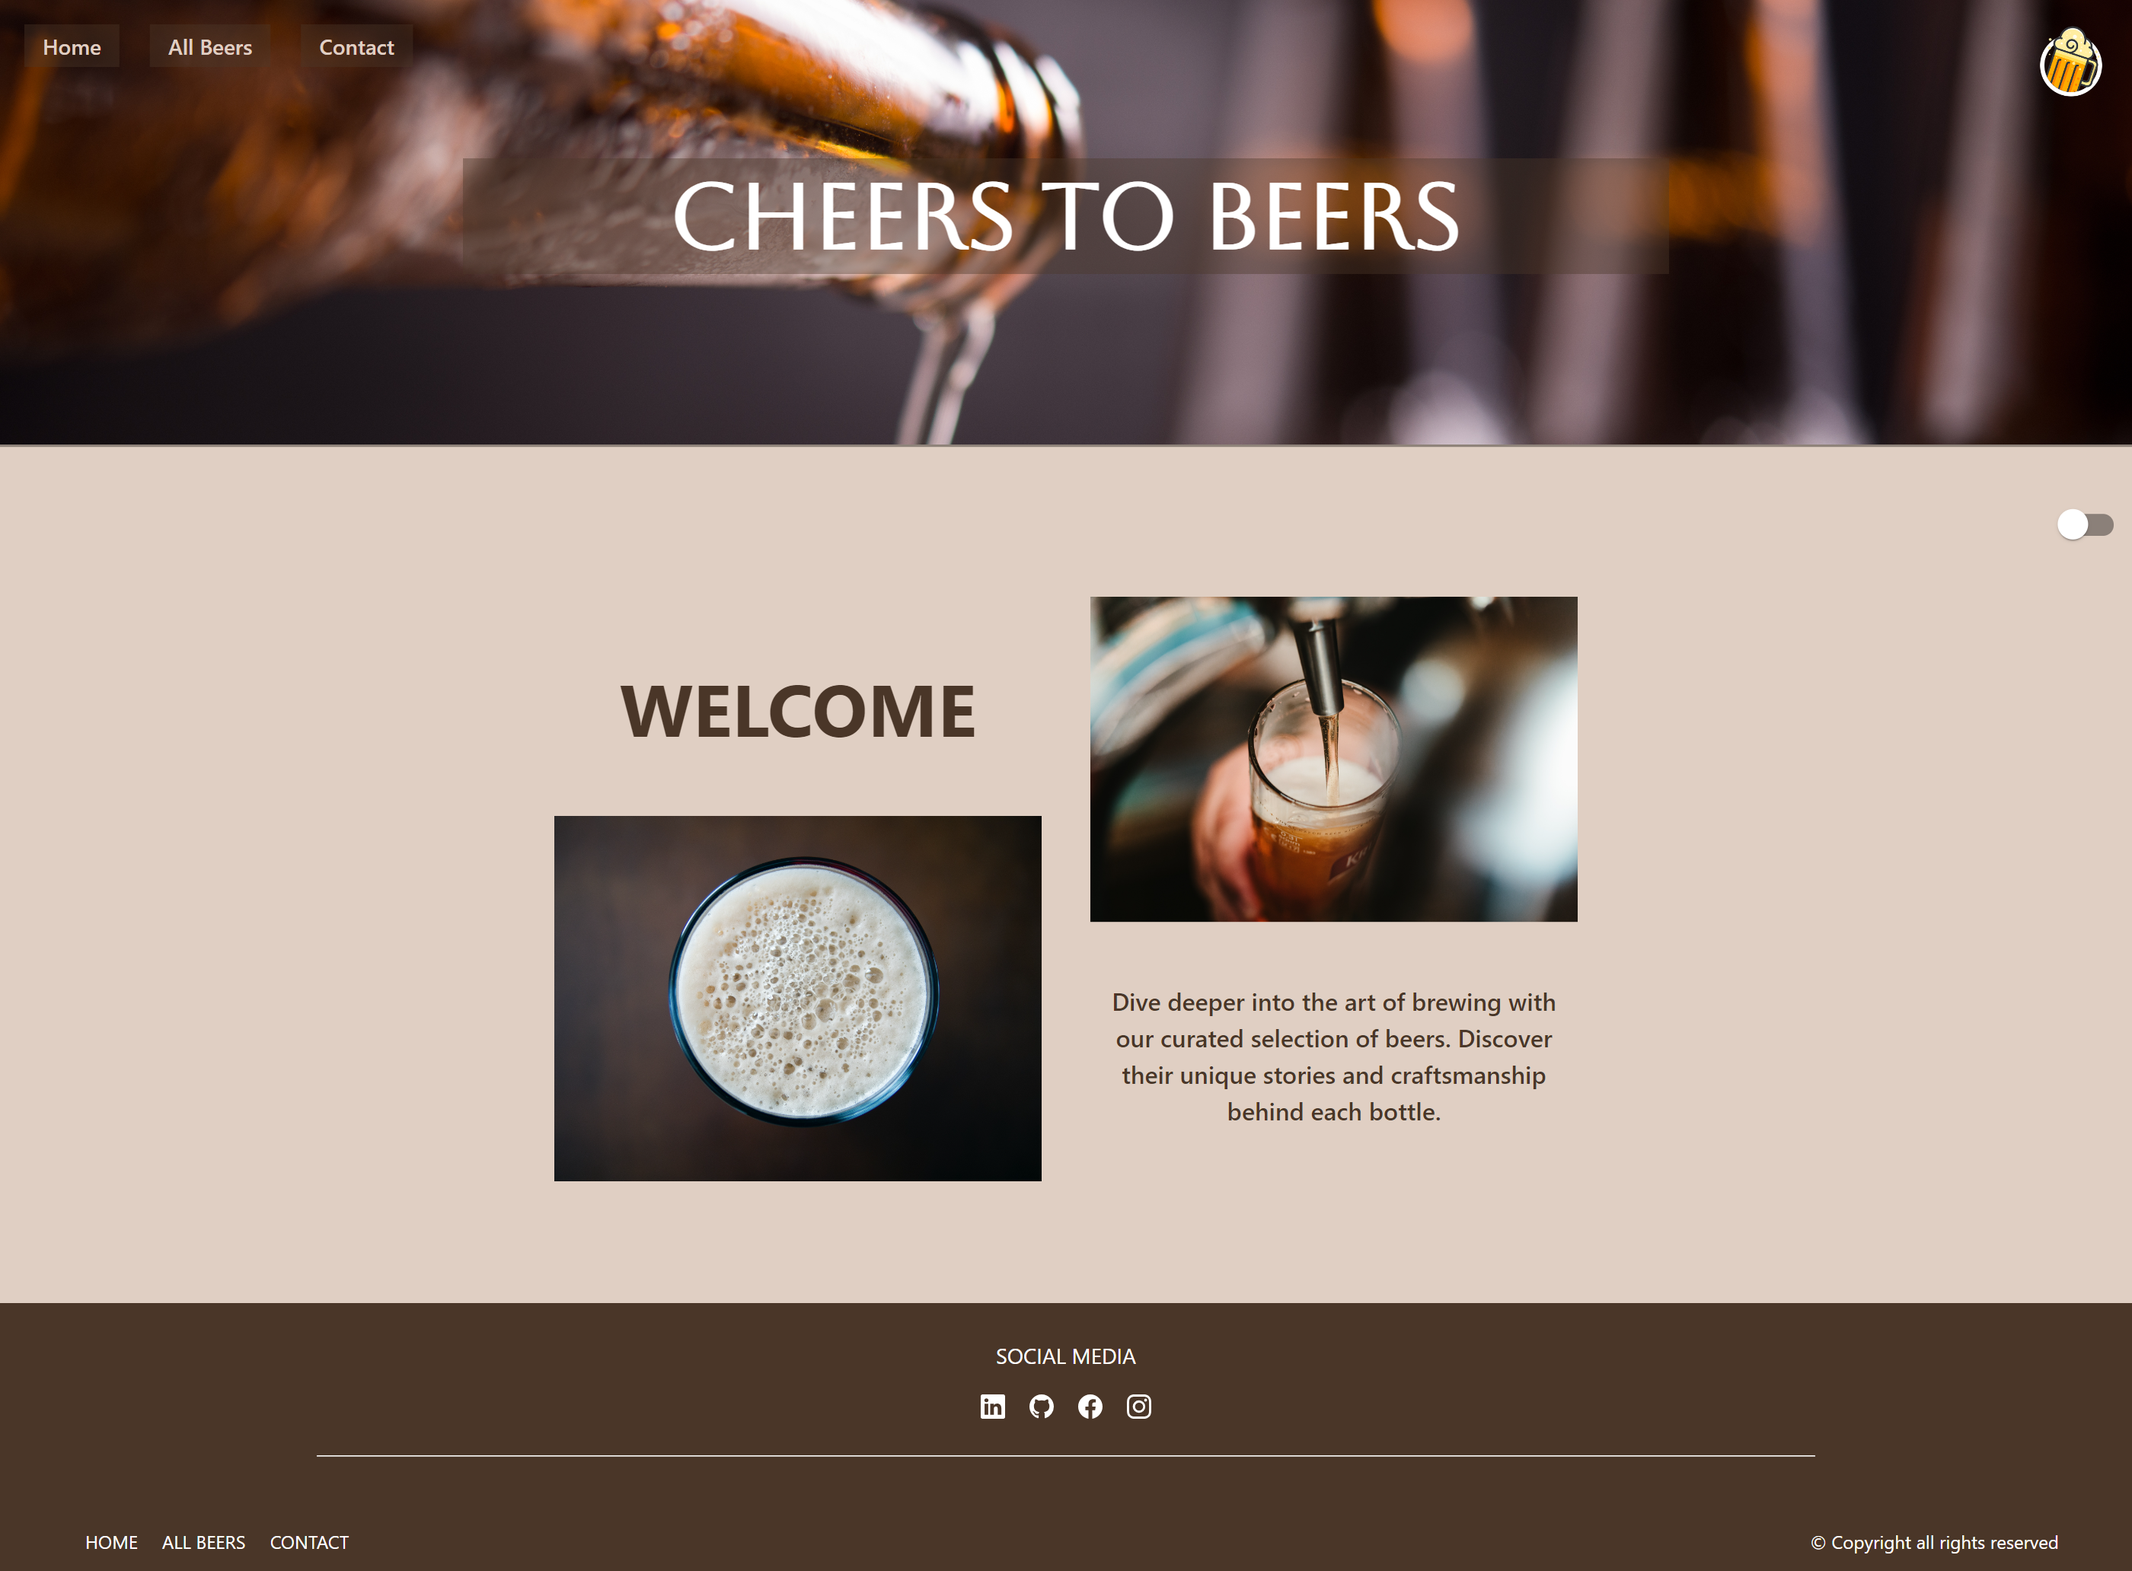
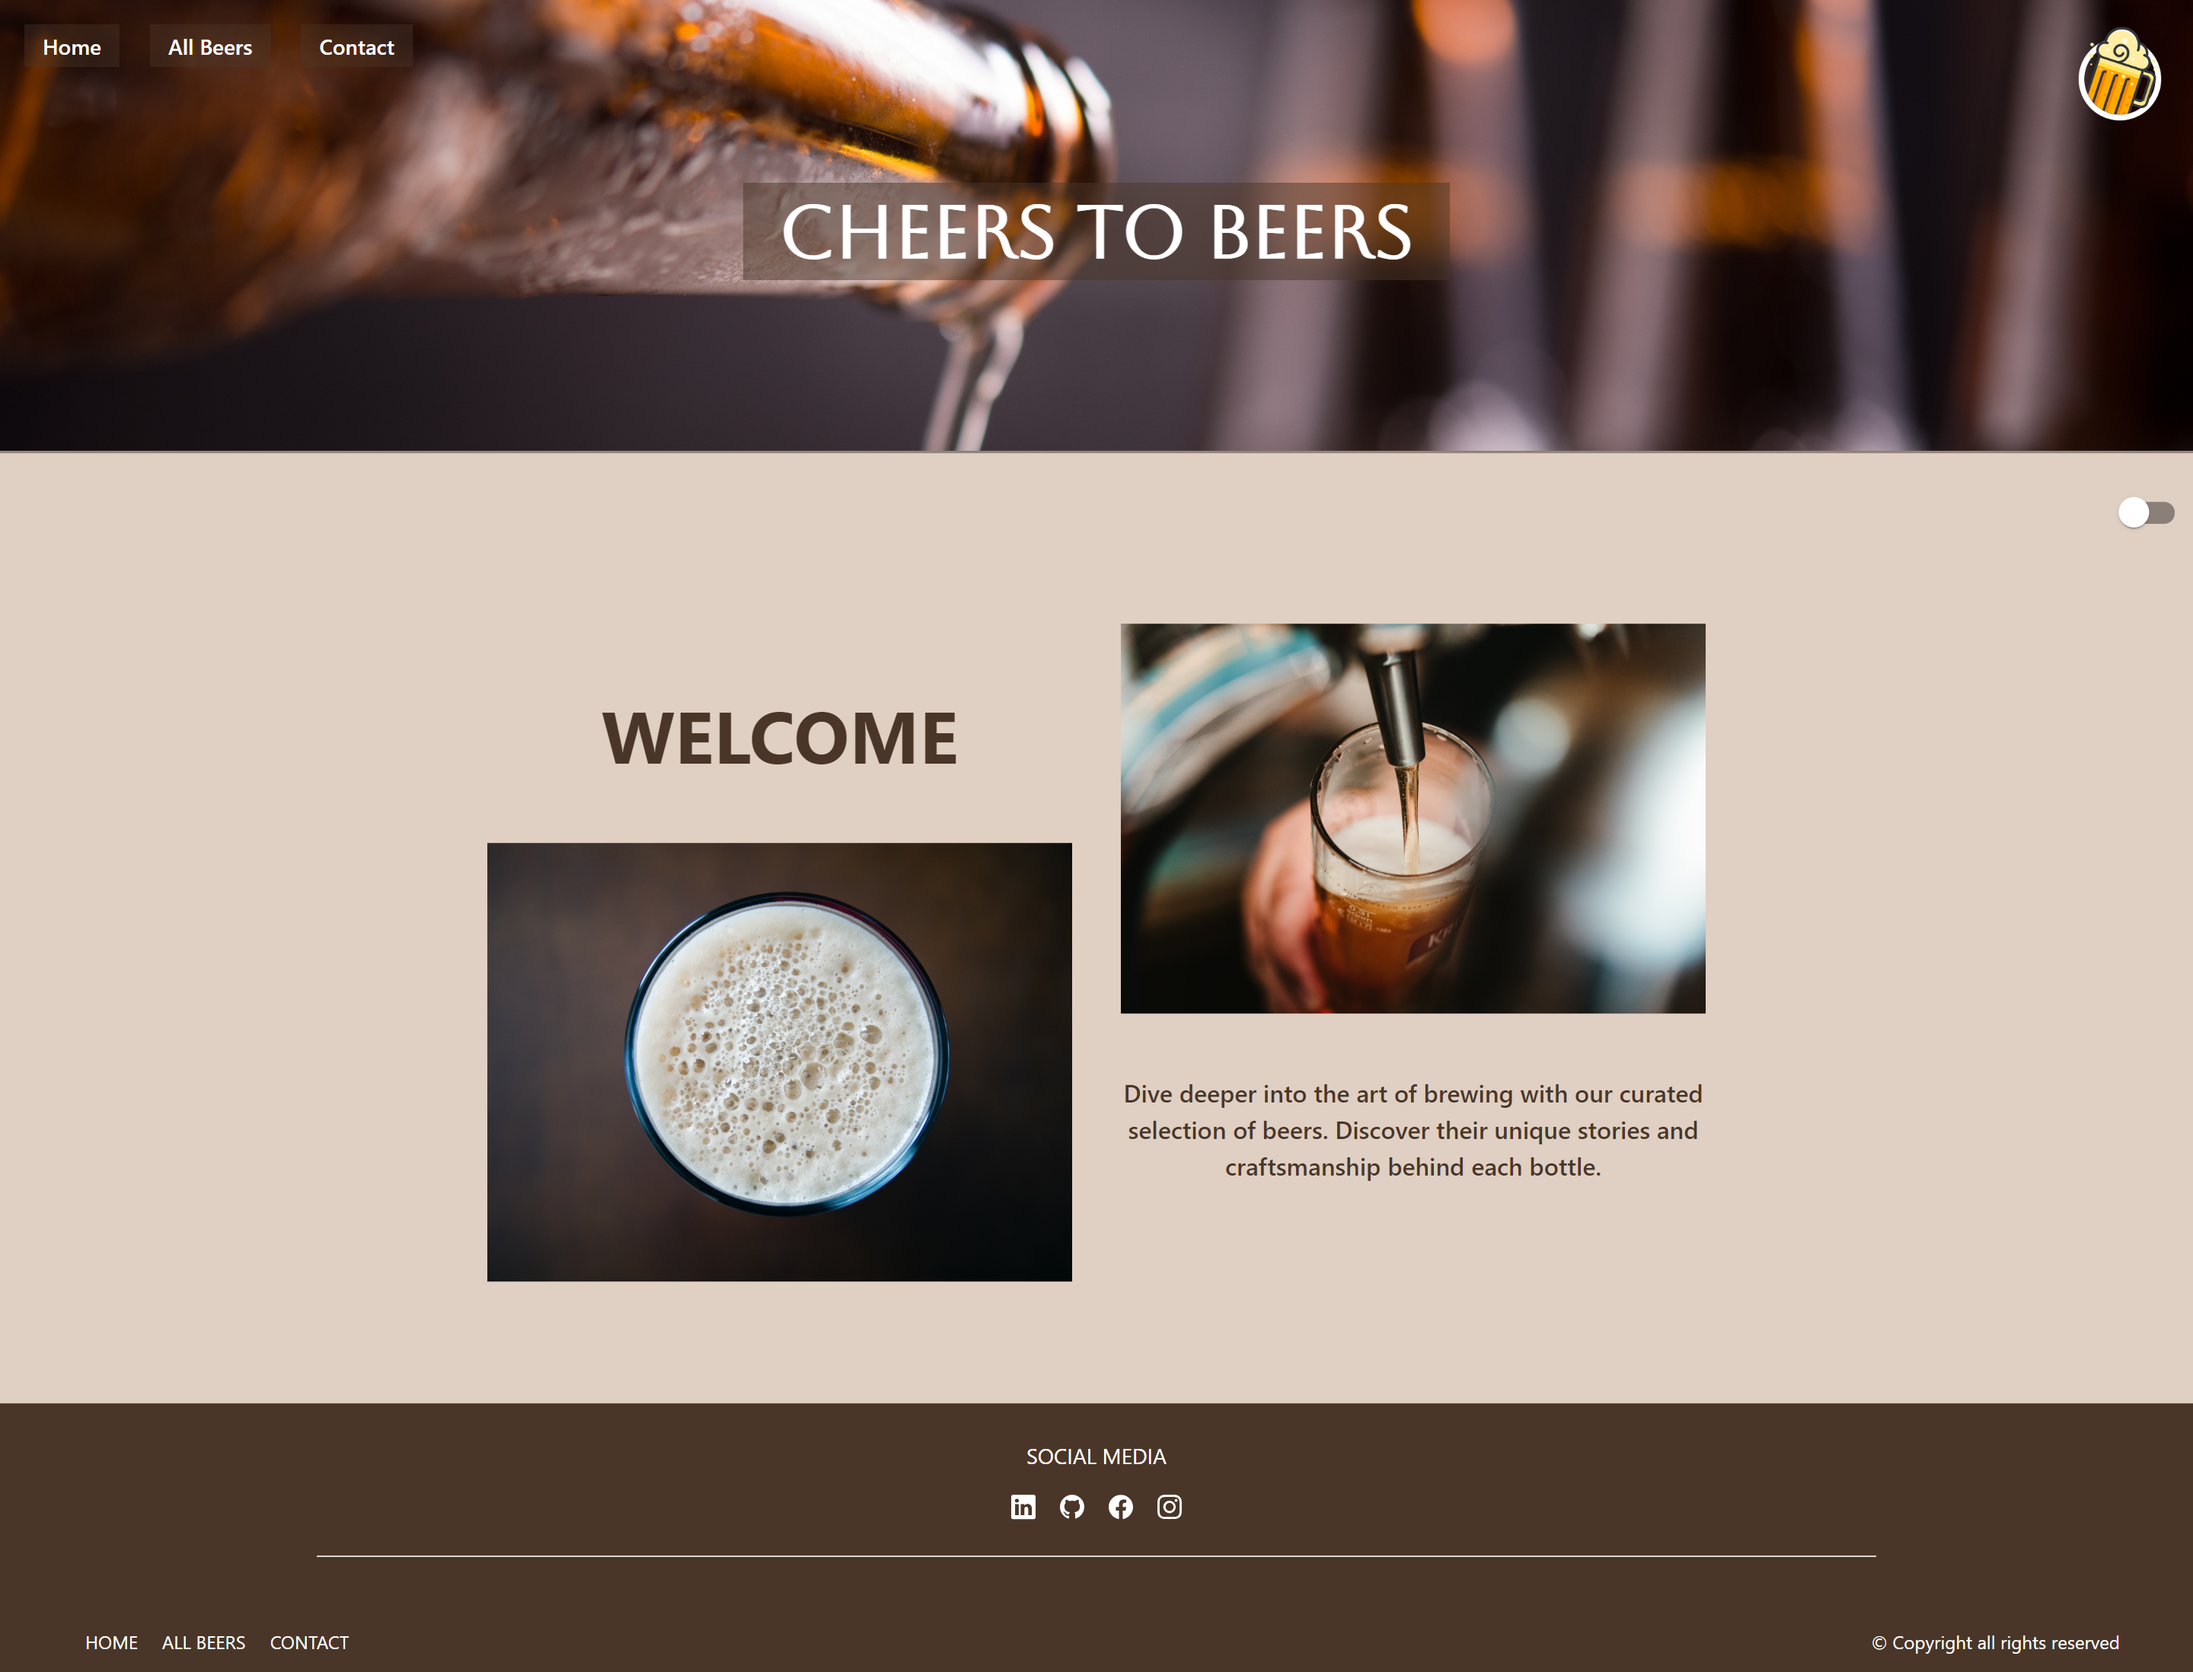
Correction V3 - part 1

diff --git a/src/components/BeerData.jsx b/src/components/BeerData.jsx
@@ -35,7 +35,7 @@ export const BeerData = () => {
                                         darkMode
                                             ? "border-DarkGrey border-solid border-2"
                                             : "border-darkBrown border-solid border-2"
-                                    } bg-whiteCream flex justify-center py-2 w-56`}
+                                    } bg-whiteCream flex justify-center py-2 w-56 sm:w-72`}
                                 >
                                     <img
                                         src={data.image_url}
@@ -48,7 +48,7 @@ export const BeerData = () => {
                                         darkMode
                                             ? "bg-DarkGrey"
                                             : "bg-darkBrown"
-                                    } flex sm:flex-row justify-between px-2 py-2 w-56`}
+                                    } flex sm:flex-row justify-between px-2 py-2 w-56 sm:w-72`}
                                 >
                                     <li className="text-white text-sm flex flex-row">
                                         <IconContext.Provider
@@ -71,7 +71,7 @@ export const BeerData = () => {
                             <div
                                 className={`${
                                     darkMode ? "text-white" : "text-darkBrown"
-                                } sm:w-96 mx-12 self-center`}
+                                } sm:w-80 mx-12 sm:mx-6 self-center`}
                             >
                                 <div
                                     className={`${
@@ -80,7 +80,7 @@ export const BeerData = () => {
                                             : "text-darkBrown"
                                     } mb-10`}
                                 >
-                                    <div className=" flex flex-row justify-center sm:justify-start">
+                                    <div className=" flex flex-row justify-center">
                                         <IconContext.Provider
                                             value={{
                                                 size: "1.5em",
@@ -88,21 +88,23 @@ export const BeerData = () => {
                                         >
                                             <IoFastFoodOutline />
                                         </IconContext.Provider>
-                                        <h2 className="text-center sm:text-left font-semibold uppercase text-2xl sm:text-lg mb-3 ml-2">
+                                        <h2 className="text-center font-semibold uppercase text-2xl sm:text-lg mb-3 ml-2">
                                             Food pairing
                                         </h2>
                                     </div>
-                                    <ul className="text-center sm:text-left text-lg sm:text-sm">
-                                        <li className="sm:list-disc">
-                                            {data.food_pairing[0]}
-                                        </li>
-                                        <li className="sm:list-disc">
-                                            {data.food_pairing[1]}
-                                        </li>
-                                        <li className="sm:list-disc">
-                                            {data.food_pairing[2]}
-                                        </li>
-                                    </ul>
+                                    <div className="flex justify-center">
+                                        <ul className="text-center text-lg sm:text-sm">
+                                            <li className="my-1">
+                                                {data.food_pairing[0]}
+                                            </li>
+                                            <li className="my-1">
+                                                {data.food_pairing[1]}
+                                            </li>
+                                            <li className="my-1">
+                                                {data.food_pairing[2]}
+                                            </li>
+                                        </ul>
+                                    </div>
                                 </div>
                             </div>
                         </div>

diff --git a/src/components/Footer.jsx b/src/components/Footer.jsx
@@ -17,14 +17,6 @@ export const Footer = () => {
             } text-white flex flex-col w-full mt-20`}
         >
             <section className="flex justify-center flex-col sm:flex-row">
-                {/* <div className="flex justify-center flex-col my-6 sm:mx-20">
-                    <p className="uppercase text-sm text-center">Address</p>
-                    <ul className="flex self-center flex-col text-xs mt-2 text-center sm:text-left">
-                        <li className="mt-1">Avenue de la Tamise, 38</li>
-                        <li className="mt-1">1000 Brussels, Belgium</li>
-                        <li className="mt-1">Belgium</li>
-                    </ul>
-                </div> */}
                 <div className="my-6 sm:mx-20">
                     <p className="uppercase text-sm text-center">
                         Social media
@@ -70,10 +62,10 @@ export const Footer = () => {
                 </div>
             </section>
             <hr className="border-white border-solid border-1 mx-12 sm:mx-52" />
-            <section className="flex justify-between mb-3 mt-12 mx-12 text-xs">
-                <div>
+            <section className="flex flex-col sm:flex-row justify-center sm:justify-between mb-3 mt-10 mx-12 text-xs">
+                <div className="mb-8 sm:mb-0">
                     <nav>
-                        <ul className="flex flex-row uppercase">
+                        <ul className="flex flex-row justify-center uppercase">
                             <li className="mx-2">
                                 <Link to="/">Home</Link>
                             </li>
@@ -86,7 +78,7 @@ export const Footer = () => {
                         </ul>
                     </nav>
                 </div>
-                <div>
+                <div className="text-center sm:text-right">
                     <p>© Copyright all rights reserved</p>
                 </div>
             </section>

diff --git a/src/components/Header.jsx b/src/components/Header.jsx
@@ -14,7 +14,7 @@ export const Header = () => {
 
     return (
         <div
-            className="flex flex-col px-4 pt-4 pb-8 sm:pb-28 bg-cover border-b-2 border-beigeBrown"
+            className="flex flex-col px-4 pt-4 pb-8 sm:pb-20 bg-cover border-b-2 border-beigeBrown"
             style={{
                 backgroundImage: darkMode
                     ? `url(${beer_bg_bn})`
